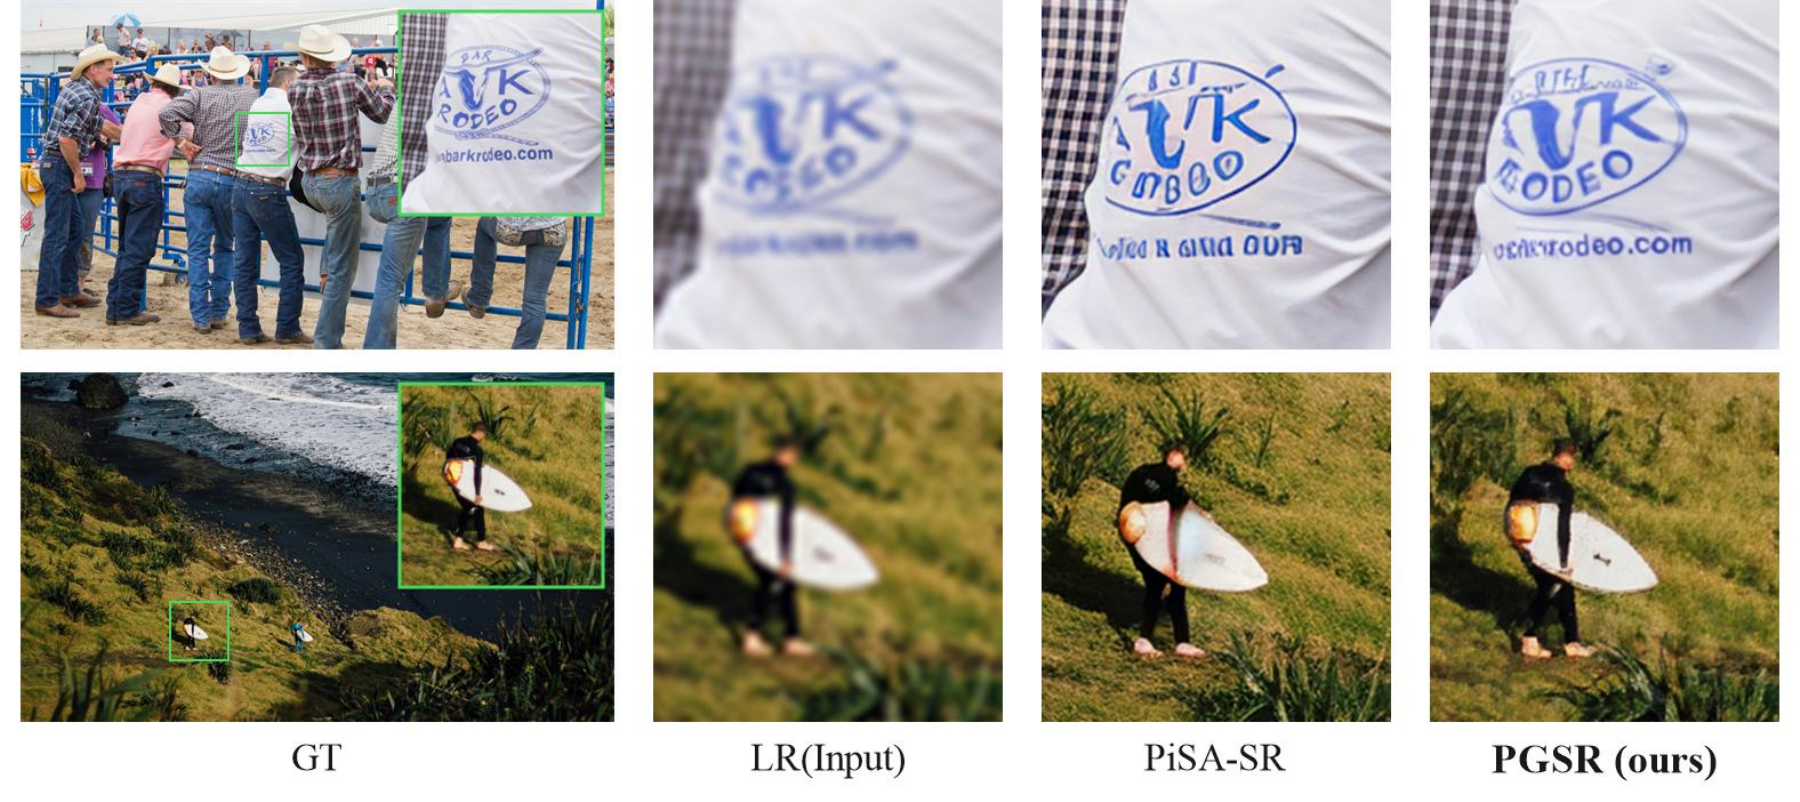
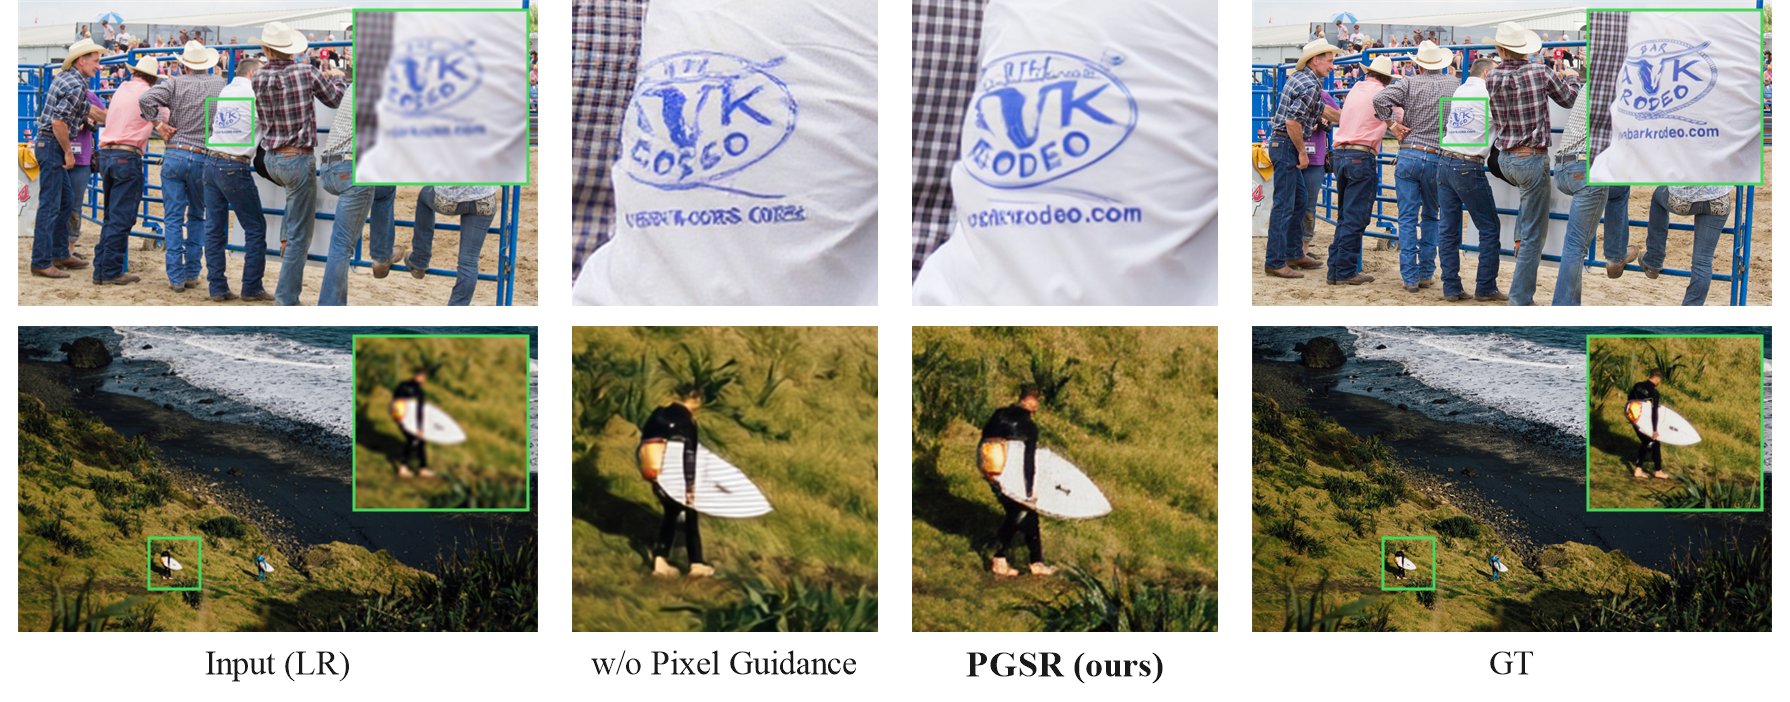
Update paper title, arXiv citation, teaser and pipeline in README

diff --git a/README.md b/README.md
@@ -1,12 +1,10 @@
 <div align="center">
 
-# PGSR
-
-### When Latents Forget Pixels: Restoring Fidelity in Diffusion Transformer Super-Resolution
+# When Latents Forget Pixels: Restoring Fidelity in Diffusion Transformer Super-Resolution
 
 **NeurIPS 2026 · Poster**
 
-[Highlights](#highlights) · [News](#news) · [Visual Results](#visual-results) · [Installation](#installation) · [Inference](#inference) · [Training](#training)
+[Paper (arXiv)](https://arxiv.org/abs/2608.09133) · [Method](#method-overview) · [Visual Results](#visual-results) · [Installation](#installation) · [Inference](#inference) · [Training](#training)
 
 </div>
 
@@ -14,14 +12,15 @@ Official implementation of **Pixel-Grounded Super-Resolution (PGSR)**.
 PGSR preserves pixel-level evidence from the low-resolution input and reuses it
 to guide both the diffusion trajectory and VAE decoding, based on FLUX.1-dev.
 
-![PGSR teaser: input-aligned text and structural details compared with PiSA-SR](assets/teaser.png)
+![PGSR teaser: LR input, without pixel guidance, PGSR, and ground truth](assets/teaser.png)
 
-*From left to right: ground truth, LR input, PiSA-SR, and PGSR. Zoomed regions highlight text and fine structural details.*
+*From left to right: LR input, restoration without pixel guidance, PGSR (ours), and ground truth. Zoomed regions highlight text and fine structural details.*
 
 ## News
 
-- **Coming soon:** PGSR checkpoints and the public paper link.
+- **Coming soon:** PGSR checkpoints.
 - **2026-09:** PGSR accepted to **NeurIPS 2026 as a poster**!
+- **2026-08-10:** Our [paper](https://arxiv.org/abs/2608.09133) is available on arXiv.
 - **2026-08-03:** Training and evaluation code organized for release.
 
 ## Highlights
@@ -30,7 +29,18 @@ to guide both the diffusion trajectory and VAE decoding, based on FLUX.1-dev.
 - **Decoder-side grounding:** inject multi-scale pixel features into the frozen VAE decoder.
 - **Sparse attention:** an optional local-window variant, adapted from CLEAR, for high-resolution inference.
 
+## Method Overview
+
+![PGSR pipeline: condition-side trajectory guidance and decoder-side pixel grounding](assets/pipeline.png)
+
+PGSR reuses LR-derived pixel evidence in both the latent conditioning pathway
+and the frozen VAE decoder. See the [paper](https://arxiv.org/abs/2608.09133) for details.
+
 ## Visual Results
+
+### DIV2K super-resolution
+
+![DIV2K 0801 comparison with generative super-resolution methods](assets/div2k-0801-comparison.png)
 
 ### Real-world super-resolution
 
@@ -164,4 +174,11 @@ This implementation builds on [Diffusers](https://github.com/huggingface/diffuse
 
 ## Citation
 
-Citation information will be added with the paper release.
+```bibtex
+@article{shi2026latents,
+  title={When Latents Forget Pixels: Restoring Fidelity in Diffusion Transformer Super-Resolution},
+  author={Shi, Yu and Zhang, Yuyao and Tai, Yu-wing},
+  journal={arXiv preprint arXiv:2608.09133},
+  year={2026}
+}
+```

diff --git a/assets/README.md b/assets/README.md
@@ -3,7 +3,10 @@
 These web-resolution images are exported from the authors' existing paper figures,
 without regenerating restoration results or changing the crops:
 
-- `teaser.png`: paper `figures/teaser.pdf` (GT, LR, PiSA-SR, PGSR).
+- `teaser.png`: `figures/Teaser/teaser_2x4_input_first.png` (LR input,
+  without pixel guidance, PGSR, GT).
+- `pipeline.png`: paper `figures/pipeline.png`.
+- `div2k-0801-comparison.png`: `figures/Results/DIV2K/0801_comparison.png`.
 - `realsr-comparison.png`: paper `figures/Canon_002_comparison.pdf`.
 - `high-resolution-comparison.png`: paper `8k/8K-res-aligned.pdf`; actual LR and
   PGSR crops share the same region under the x4 coordinate mapping.
